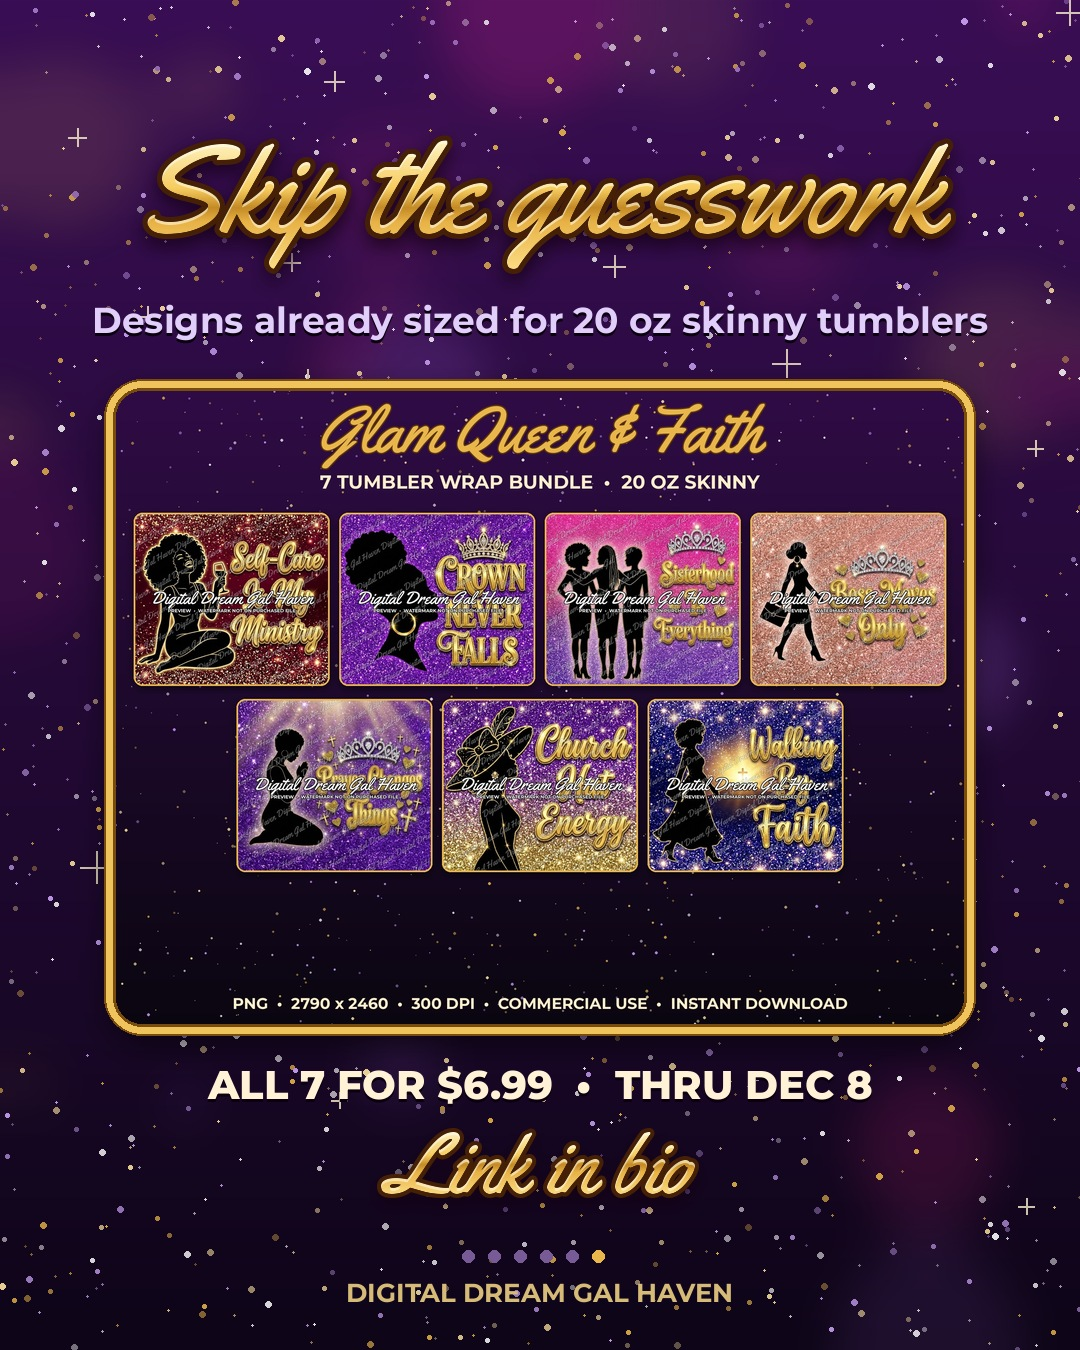
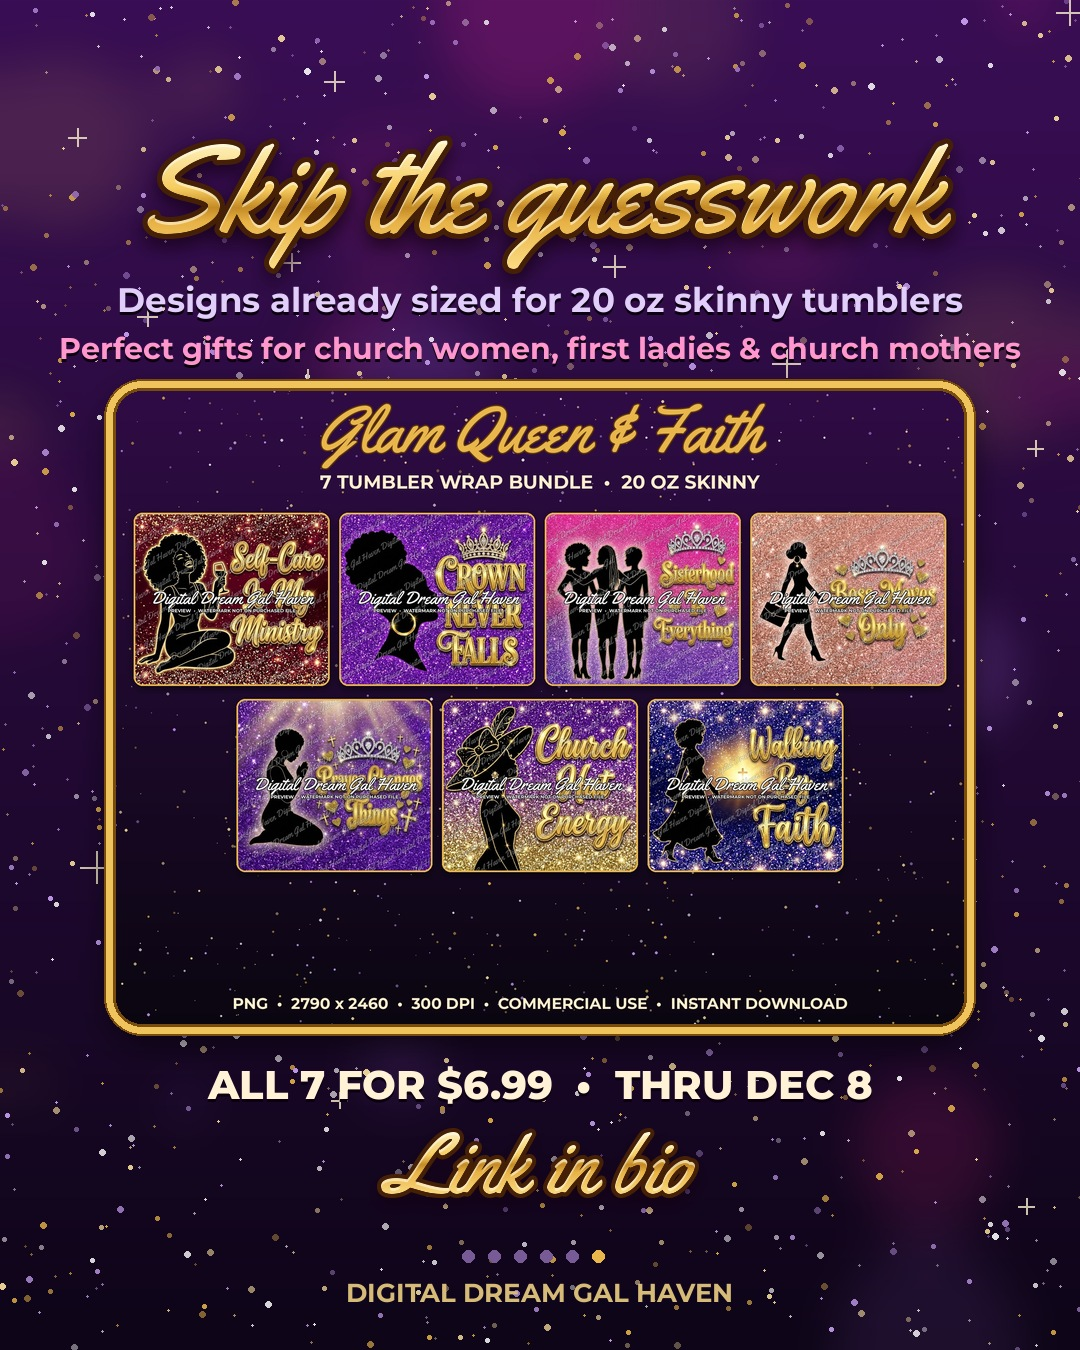
Carousel: add church-women gift angle to final slide and caption
Claude-Session: https://claude.ai/code/session_013Lmse4UUbVMfZjWLLcf5XL

Changed region(s): [[0.0611, 0.2178, 0.9472, 0.28]]

diff --git a/designs/carousels/printing_mistakes.py b/designs/carousels/printing_mistakes.py
@@ -194,7 +194,8 @@ slides.append(tip_slide(4, 'star', 'Bonus tip', f'{UP}/ba510336-image.jpg', (0.5
 # 6. CTA
 img = glitter_bg(11)
 gold_text(img, (W//2, 190), 'Skip the guesswork', font(SCRIPT, 124))
-text(img, (W//2, 320), 'Designs already sized for 20 oz skinny tumblers', font(SEMI, 36), fill=LILAC)
+text(img, (W//2, 300), 'Designs already sized for 20 oz skinny tumblers', font(SEMI, 34), fill=LILAC)
+text(img, (W//2, 348), 'Perfect gifts for church women, first ladies & church mothers', font(SEMI, 30), fill=(255, 150, 205))
 photo(img, 'assets/bundles/glam-queen-faith-tumbler-bundle-7/etsy-cover-7-designs.jpg', (110, 385, 970, 1030))
 text(img, (W//2, 1085), 'ALL 7 FOR $6.99  •  THRU DEC 8', font(BOLD, 40))
 gold_text(img, (W//2, 1165), 'Link in bio', font(SCRIPT, 84), stroke=4)

diff --git a/content/instagram/carousel-printing-mistakes/caption.md b/content/instagram/carousel-printing-mistakes/caption.md
@@ -15,12 +15,16 @@ Swipe through ➡
 
 Save this for your next press day 📌 and send it to a crafter friend who needs it!
 
-Want designs already sized for 20oz skinny tumblers? My Glam Queen & Faith bundle is 7 designs for $6.99 through Dec 8 🔥 Link in bio!
+Want designs already sized for 20oz skinny tumblers? My Glam Queen & Faith bundle is 7 designs for $6.99 through Dec 8 🔥
+
+👒 Made for the church women in your life: first ladies, church mothers, prayer warriors & your Sunday sisters. Perfect for Mother's Day, birthdays, pastor & first lady appreciation, and women's ministry gifts 🙏💜
+
+Link in bio!
 
 Which mistake have YOU made? Tell me I'm not the only one 👇
 ```
 
 ## Hashtags
 ```
-#sublimationtips #sublimationforbeginners #tumblertips #sublimationtumbler #20ozskinnytumbler #tumblerwrap #sublimationprinting #crafttips #tumblermaker #sublimationdesigns #pngdesigns #digitaldownload #smallbusinessowner #blackownedbusiness #etsyshop
+#sublimationtips #sublimationforbeginners #tumblertips #sublimationtumbler #20ozskinnytumbler #tumblerwrap #sublimationprinting #crafttips #tumblermaker #sublimationdesigns #pngdesigns #digitaldownload #smallbusinessowner #blackownedbusiness #etsyshop #churchgifts #firstladygift #christiangifts #womensministry
 ```
